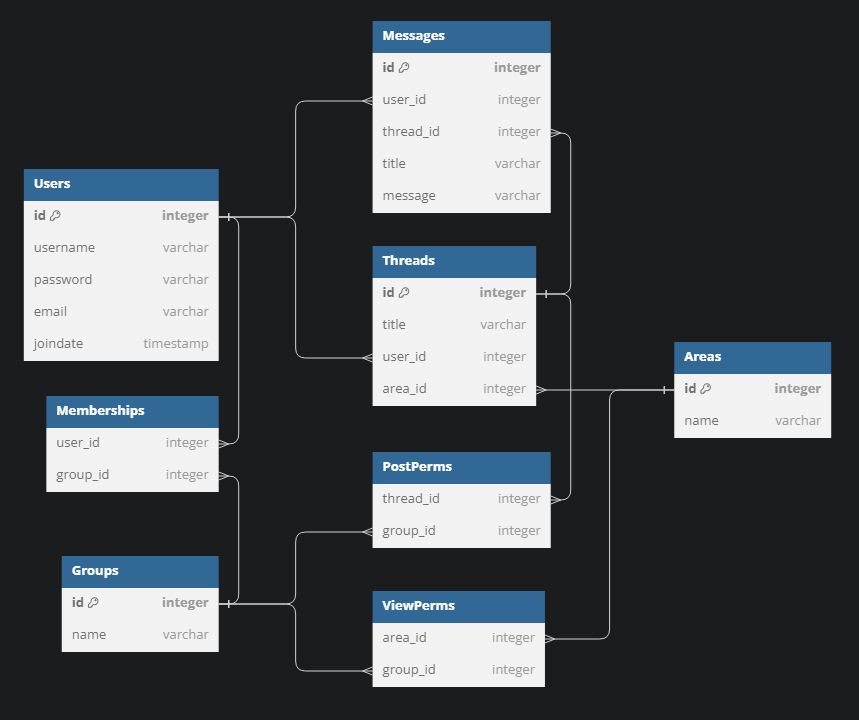
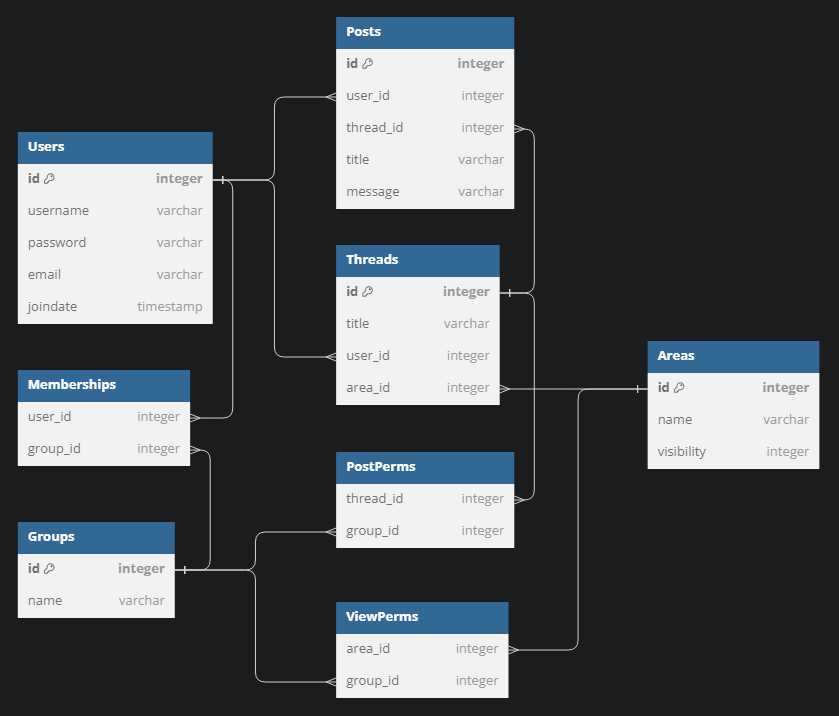
plan SQL queries

diff --git a/todo.md b/todo.md
@@ -13,19 +13,67 @@
     - Threads [ ]  
         - Page layout [ ]  
         - Message layout [ ]  
-    - Admin page [ ]  
+    - Search page [ ]  
+    - *Admin page [ ]  
     - *User profile [ ]  
     - *User settings [ ]  
 - Write one consistent CSS file for everything [ ]  
+- Add disclaimers, copyleft notices etc. [ ]  
 
 ### Backend
-- Plan databases [~]   
+- Plan databases [x]   
 - Build databases [ ]  
 - Connect databases to page [ ]  
+    - List necessary connections [x]  
+    - Write queries [ ]  
 - Security stuff [ ]  
+    - Password encryption [ ]
+    - *E-mail encryption [ ]
+        - *Setting to disable saving emails [ ]  
+- Cookies [ ] 
+- *Forum generator (first user gains admin rights, basic setup)
+
+### SQL queries
+- Frontpage [ ]  
+    - Areas [ ]  
+    - Threads [ ]  
+    - Posts [ ]  
+    - Users [ ]  
+    - ViewPerms [ ]  
+        - Memberships [ ]  
+        - Groups [ ]  
+- Area [ ]  
+    - Threads [ ]    
+    - Posts [ ]  
+    - Users [ ]
+    - ViewPerms [ ]  
+        - Memberships [ ]  
+        - Groups [ ]  
+- Thread [ ]  
+    - Posts [ ]  
+    - Users [ ]  
+    - ViewPerms [ ]  
+        - Memberships [ ]  
+        - Groups [ ]  
+    - PostPerms [ ]  
+    - *Areas (navigation) [ ]
+    - *Threads (navigation) [ ]
+- Search [ ]  
+    - Posts [ ]  
+    - Threads [ ]  
+    - *Users [ ]  
+    - ViewPerms [ ]  
+        - Memberships [ ]  
+        - Groups [ ]  
+- *Admin page [ ]
+- *User page [ ]
+- *User profile [ ]
 
 ### Testing
 - Plan tests [ ]  
     - Test databases on command line [ ]
     - Test databases through GUI [ ]
+    - Test site not breaking when resized [ ]
+    - Repeat each for Gecko and Chromium [ ]
+    - *Use Firefox to spoof mobile user agent [ ]
 - Do tests [ ]  

diff --git a/db-layout.md b/db-layout.md
@@ -6,7 +6,7 @@ Table Users {
     joindate timestamp
 }
 
-Table Messages {
+Table Posts {
     id integer [primary key]
     user_id integer
     thread_id integer
@@ -47,8 +47,8 @@ Table PostPerms {
     group_id integer
 }
 
-Ref: Messages.user_id > Users.id
-Ref: Messages.thread_id > Threads.id
+Ref: Posts.user_id > Users.id
+Ref: Posts.thread_id > Threads.id
 
 Ref: Threads.user_id > Users.id
 Ref: Threads.area_id > Areas.id
@@ -62,7 +62,7 @@ Ref: ViewPerms.group_id > Groups.id
 Ref: PostPerms.thread_id > Threads.id
 Ref: PostPerms.group_id > Groups.id
 
-Hint: use 'code' view for proper formatting.
+**Hint:** use 'code' view for proper formatting.
 
 ### Visualization
 
